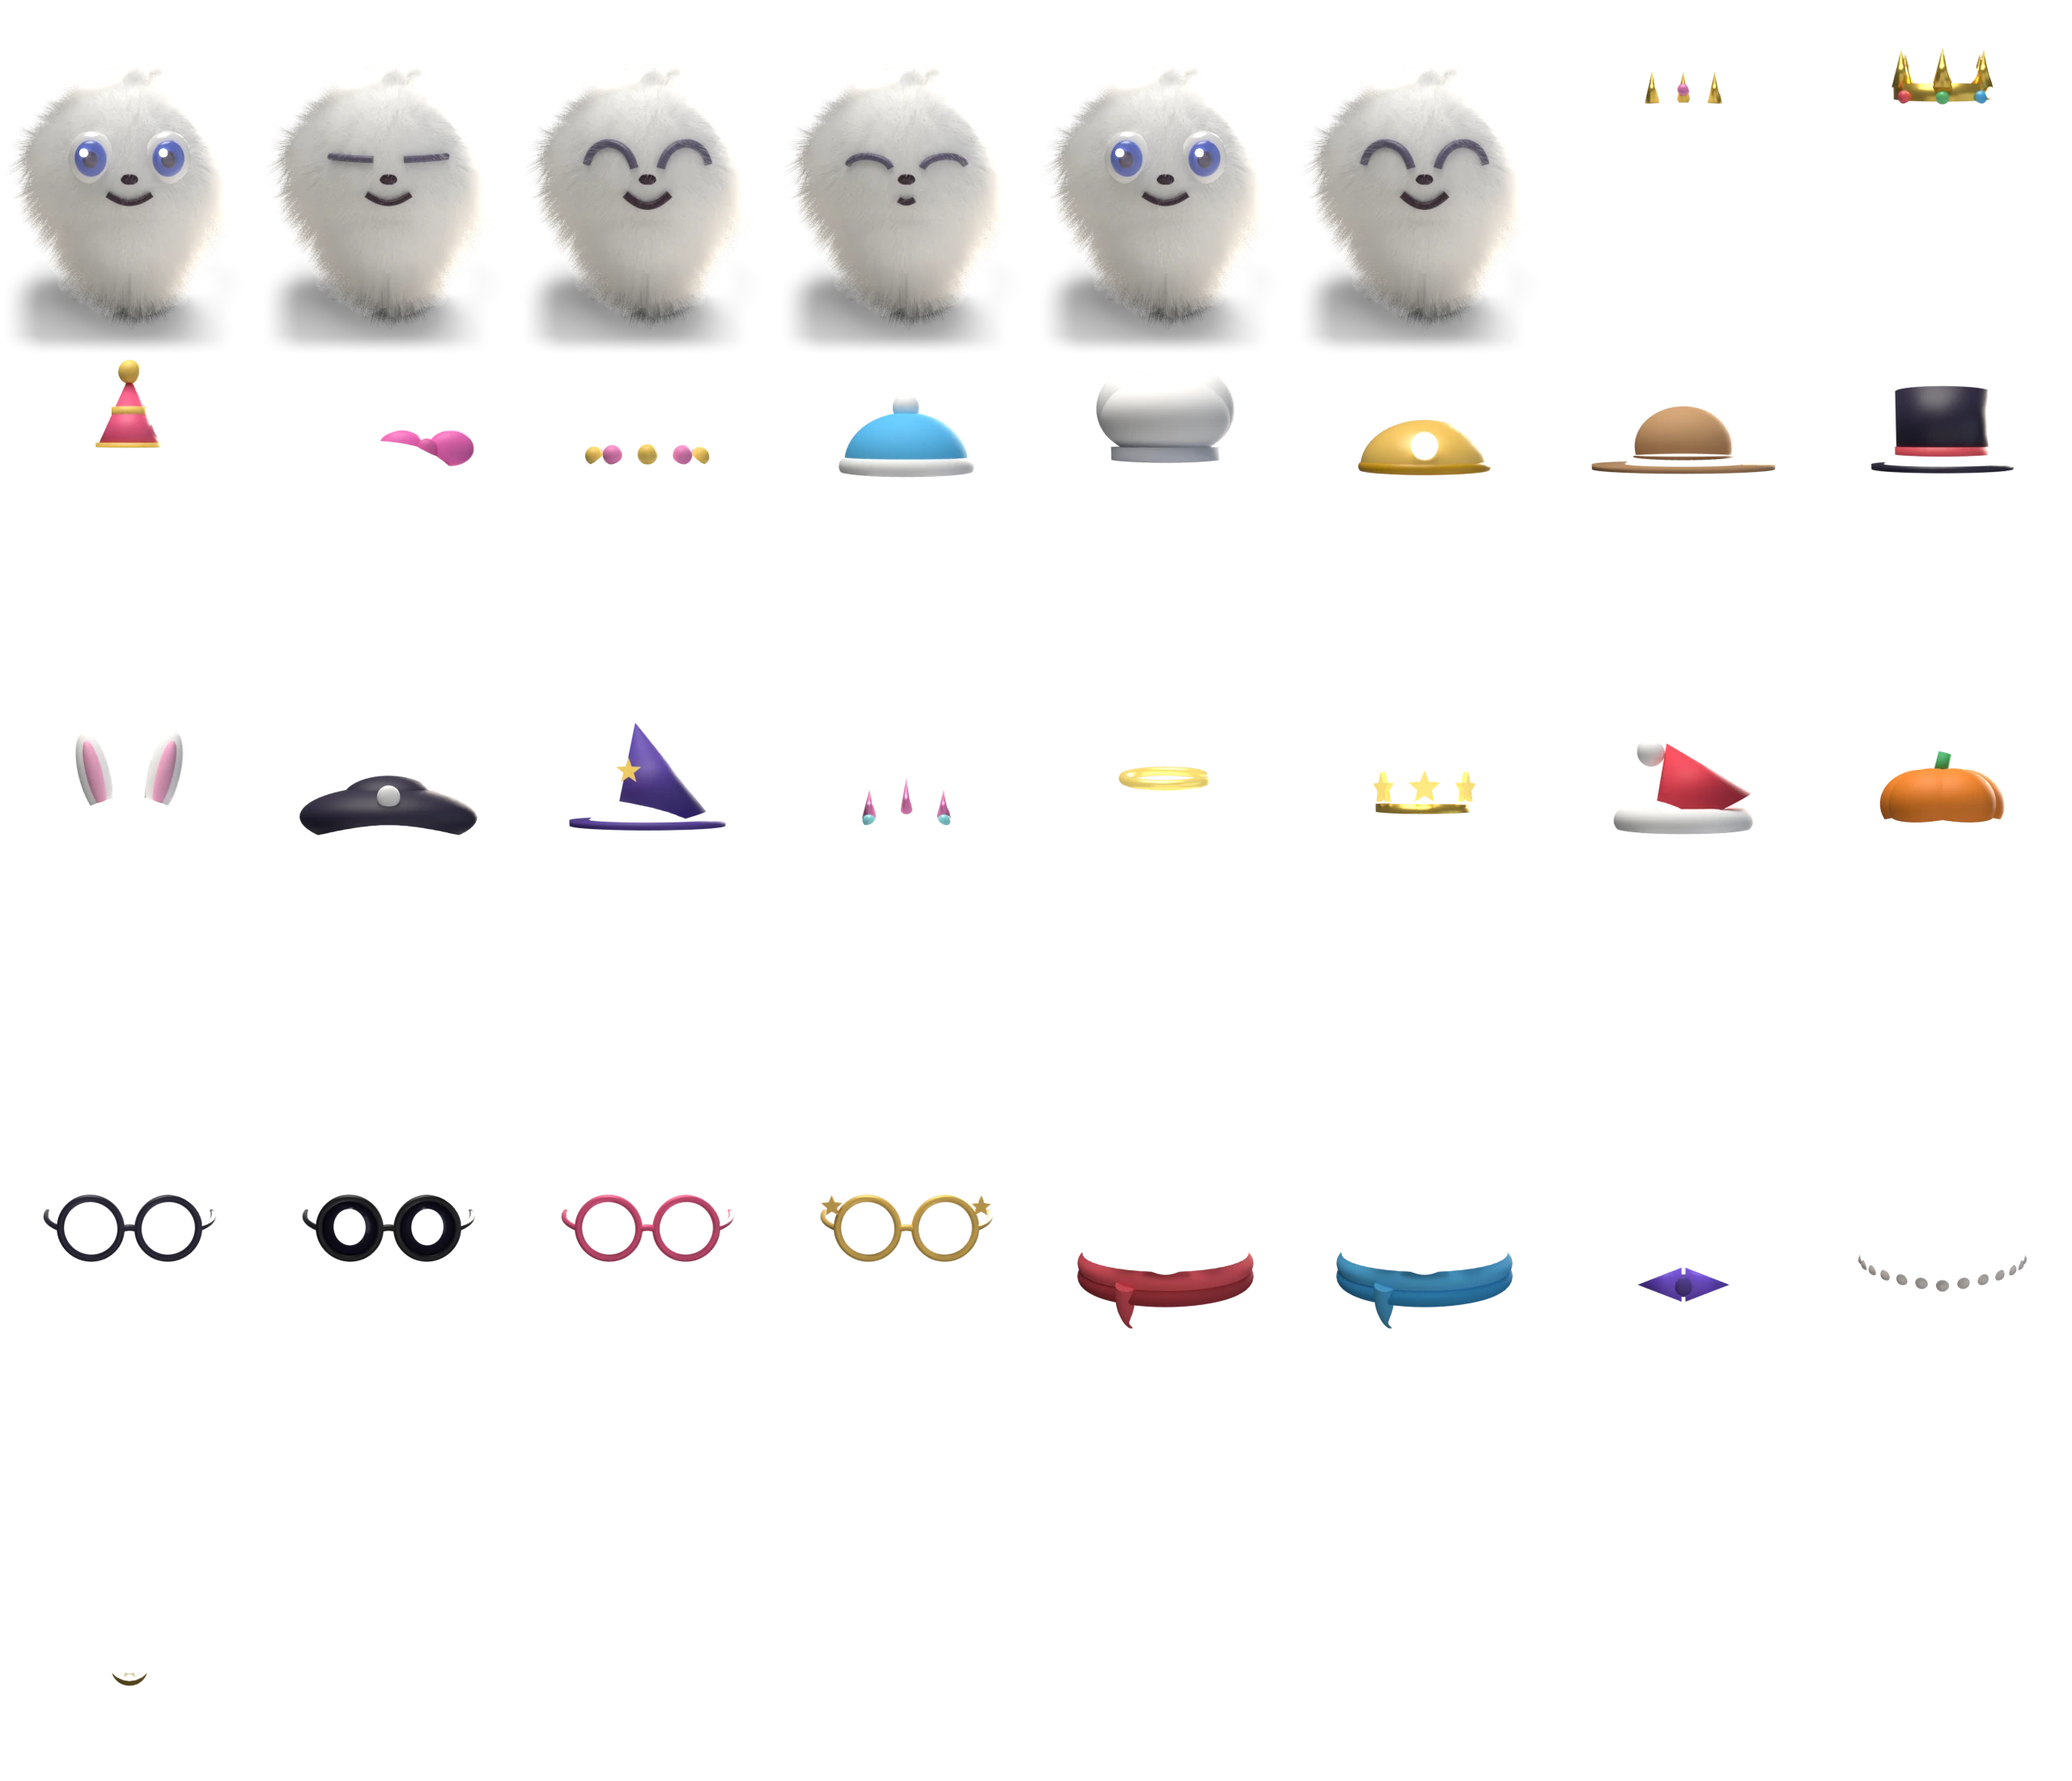
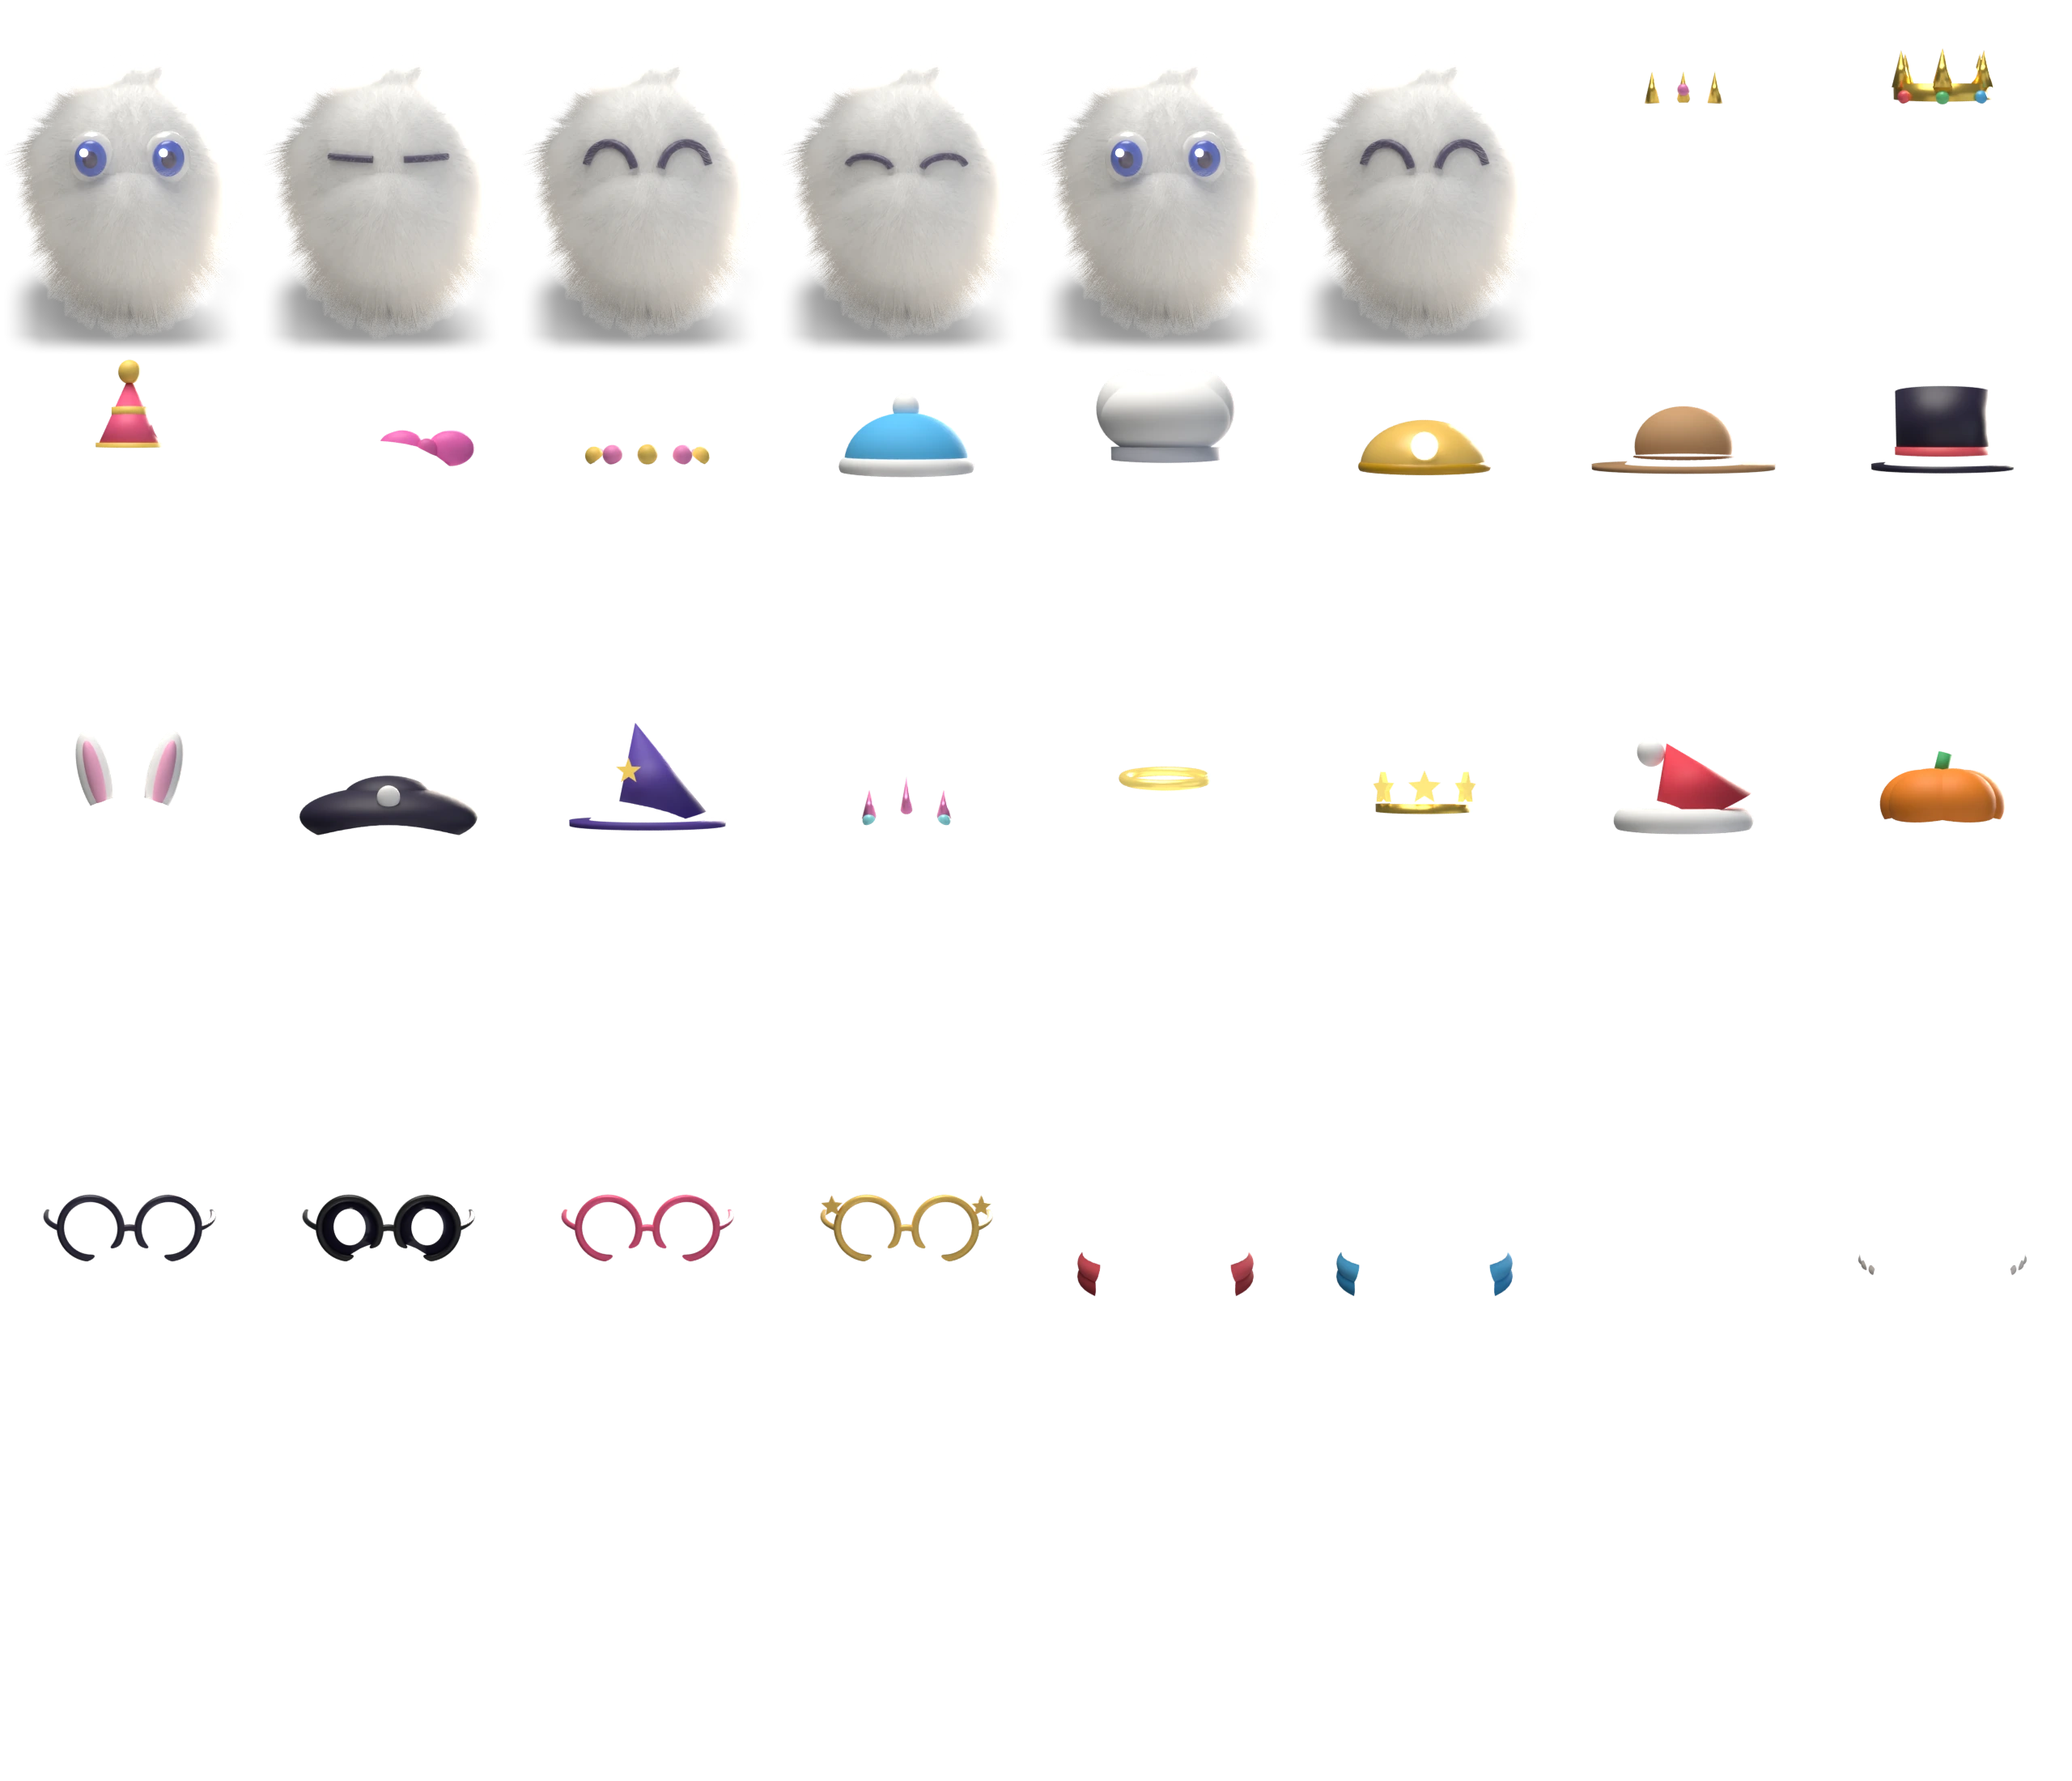
Craepets: one coat per species, so the fur no longer jumps between frames
Blender lays a hair particle system differently every time a scene is
rebuilt, even with the same seed, so rendering each expression in its
own scene gave every frame a different silhouette and the pet seemed to
twitch when it blinked. Each species is now built once and only the
face is swapped (and the feet moved) between frames, so the coat is
identical in every frame; the wardrobe reuses the same scene too. Frame
silhouettes are now pixel-identical outside the face.

Claude-Session: https://claude.ai/code/session_01STmPjNXH8YD7KjfrzSHRUD

diff --git a/tools/craepets-art/render.py b/tools/craepets-art/render.py
@@ -461,20 +461,33 @@ class Creature:
 
     def __init__(self, S, frame="idle"):
         self.S, self.frame = S, frame
-        self.body = []
+        self.body, self.face_objs, self.feet_objs = [], [], []
         S.clay_rough = self.skin_rough
         self.build()
         self.coat()
+        self.set_frame(frame)
 
     # ---- pieces ------------------------------------------------------------
     def build(self):
+        """The body — everything that stays put between frames. The face
+        is built by set_frame(), so one creature (and one coat of hair,
+        which Blender lays differently every time a scene is rebuilt)
+        serves every expression: the fur never jumps between frames."""
         S = self.S
         self.body.append(S.sphere("body", self.body_c, 1.0, S.clay("body"), scale=self.body_r))
         self.trim()
         self.belly()
-        self.face()
         if self.feet: self.make_feet()
-        S.body_objs = self.body
+
+    def set_frame(self, frame):
+        """Swap in the face for `frame` and pose the feet."""
+        self.frame = frame
+        S = self.S
+        if self.face_objs: S.remove(self.face_objs)
+        self.face_objs = []
+        self.face()
+        self.pose_feet()
+        S.body_objs = self.body + self.face_objs
 
     def trim(self): pass
 
@@ -521,12 +534,12 @@ class Creature:
                 # animal eyes: a white, a coloured iris, a small dark pupil,
                 # all glossy so the softbox reflects in them, plus a pin of
                 # light so they always catch
-                self.body.append(S.sphere("eye", (x, y + 0.02, z), r, S.eye_white(), scale=(1, 0.55, 1.15)))
-                self.body.append(S.sphere("iris", (x, y - r * 0.5, z + 0.02), r * 0.66, S.eye_iris(self.iris),
+                self.face_objs.append(S.sphere("eye", (x, y + 0.02, z), r, S.eye_white(), scale=(1, 0.55, 1.15)))
+                self.face_objs.append(S.sphere("iris", (x, y - r * 0.5, z + 0.02), r * 0.66, S.eye_iris(self.iris),
                                           scale=(1, 0.5, 1.15)))
-                self.body.append(S.sphere("pupil", (x, y - r * 0.7, z + 0.02), r * 0.36, S.eye_pupil(),
+                self.face_objs.append(S.sphere("pupil", (x, y - r * 0.7, z + 0.02), r * 0.36, S.eye_pupil(),
                                           scale=(1, 0.5, 1.15)))
-                self.body.append(S.sphere("glint", (x - r * 0.24, y - r * 0.86, z + r * 0.36), r * 0.16, S.eye_glint()))
+                self.face_objs.append(S.sphere("glint", (x - r * 0.24, y - r * 0.86, z + r * 0.36), r * 0.16, S.eye_glint()))
             else:
                 k = S.mat("lid", COL["pupil"], "eye", rough=0.35)
                 pts = []
@@ -544,7 +557,7 @@ class Creature:
                         a = math.pi * (1 - i / 6.0)
                         px, pz = x + math.cos(a) * r * 1.05, z - r * 0.35 + math.sin(a) * r * 1.0
                         pts.append((px, self.front(px, pz) - 0.02, pz))
-                self.body.append(S.tube("lid", pts, 0.055 if mode == "happy" else 0.045, k))
+                self.face_objs.append(S.tube("lid", pts, 0.055 if mode == "happy" else 0.045, k))
 
     def mouth(self):
         S = self.S
@@ -558,13 +571,13 @@ class Creature:
             x = t * w
             z = self.mouth_z - (1 - t * t) * w * (0.55 if big else 0.4) + w * 0.35
             pts.append((x, self.front(x, z) - 0.05, z))
-        self.body.append(S.tube("mouth", pts, 0.05 if big else 0.04, m))
+        self.face_objs.append(S.tube("mouth", pts, 0.05 if big else 0.04, m))
 
     def make_nose(self):
         if not self.nose: return
         S = self.S
         z = self.mouth_z + (self.eye_z - self.mouth_z) * 0.52
-        self.body.append(S.sphere("nose", (0, self.front(0, z) + 0.05, z), 0.11,
+        self.face_objs.append(S.sphere("nose", (0, self.front(0, z) + 0.05, z), 0.11,
                                   S.fixed("nose", "#3a2036", rough=0.3), scale=(1.3, 0.6, 0.85)))
 
     def face(self):
@@ -572,13 +585,19 @@ class Creature:
 
     def make_feet(self):
         S = self.S
-        up = self.frame in ("walk", "happywalk")
         for sx in (-1, 1):
-            z = self.foot_r * self.foot_scale[2]
-            y = self.foot_y
+            o = S.sphere("foot", (sx * self.foot_dx, self.foot_y, self.foot_r * self.foot_scale[2]), self.foot_r,
+                         S.clay("body"), scale=self.foot_scale)
+            self.body.append(o); self.feet_objs.append((o, sx))
+
+    def pose_feet(self):
+        """Walking lifts the left foot; the foot object just moves, so its
+        coat stays exactly as it was."""
+        up = self.frame in ("walk", "happywalk")
+        for o, sx in self.feet_objs:
+            z, y = self.foot_r * self.foot_scale[2], self.foot_y
             if up and sx < 0: z += 0.32; y -= 0.18
-            self.body.append(S.sphere("foot", (sx * self.foot_dx, y, z), self.foot_r, S.clay("body"),
-                                      scale=self.foot_scale))
+            o.location = (sx * self.foot_dx, y, z)
 
     # ---- anchors for the wardrobe ----------------------------------------
     def head_top(self):
@@ -692,13 +711,13 @@ class Zibbit(Creature):
         EY = -0.35
         for sx in (-1, 1):
             x, z, r = sx * self.eye_dx, self.eye_z, self.eye_r
-            self.body.append(S.sphere("eyeball", (x, EY, z), r, S.eye_white()))
+            self.face_objs.append(S.sphere("eyeball", (x, EY, z), r, S.eye_white()))
             if mode == "open":
-                self.body.append(S.sphere("iris", (x, EY - r * 0.68, z + r * 0.2), r * 0.56, S.eye_iris(self.iris),
+                self.face_objs.append(S.sphere("iris", (x, EY - r * 0.68, z + r * 0.2), r * 0.56, S.eye_iris(self.iris),
                                           scale=(1, 0.6, 1)))
-                self.body.append(S.sphere("pupil", (x, EY - r * 0.82, z + r * 0.2), r * 0.3, S.eye_pupil(),
+                self.face_objs.append(S.sphere("pupil", (x, EY - r * 0.82, z + r * 0.2), r * 0.3, S.eye_pupil(),
                                           scale=(1, 0.6, 1)))
-                self.body.append(S.sphere("glint", (x - r * 0.2, EY - r * 0.98, z + r * 0.42), r * 0.15, S.eye_glint()))
+                self.face_objs.append(S.sphere("glint", (x - r * 0.2, EY - r * 0.98, z + r * 0.42), r * 0.15, S.eye_glint()))
             else:
                 k = S.mat("lid", COL["pupil"], "eye", rough=0.35)
                 pts = []
@@ -708,7 +727,7 @@ class Zibbit(Creature):
                     pz = z + r * 0.2 + (math.sin(a) * r * (0.6 if mode == "happy" else 0.2) - (0.1 * r if mode != "happy" else 0.05 * r))
                     dy = math.sqrt(max(0.0, r * r - (px - x) ** 2 - (pz - z) ** 2))
                     pts.append((px, EY - dy - 0.02, pz))
-                self.body.append(S.tube("lid", pts, 0.05, k))
+                self.face_objs.append(S.tube("lid", pts, 0.05, k))
 
     def trim(self):
         S = self.S
@@ -734,8 +753,7 @@ class Glimmr(Creature):
         self.body.append(S.sphere("body2", (0, 0.05, 1.05), 0.88, S.clay("body"), scale=(1, 0.95, 1)))
         self.body.append(S.sphere("body3", (0.1, 0.1, 0.45), 0.5, S.clay("body")))
         self.body.append(S.sphere("body4", (0.25, 0.15, 0.12), 0.22, S.clay("body")))
-        self.trim(); self.belly(); self.face()
-        S.body_objs = self.body
+        self.trim(); self.belly()
 
     def belly(self):
         S = self.S
@@ -1214,18 +1232,25 @@ def main():
             if os.path.exists(base + ".webp") and not args.force and sid in manifest["sheets"]:
                 print("skip", sid, "(exists)"); continue
             tiles = []
+            S = c = None                      # ONE scene per species: the coat must not change between frames
+            def creature(frame):
+                nonlocal S, c
+                if S is None:
+                    S = Scene(FRAME_W, FRAME_H, args.samples); c = SPECIES[sid](S, frame)
+                else:
+                    c.set_frame(frame)
+                return S, c
             for frame in (args.frames.split(",") if args.frames else FRAMES):
                 lit, idp = tile(f"{sid}-{frame}"), tile(f"{sid}-{frame}-id")
                 if not have(lit, idp):
-                    S = Scene(FRAME_W, FRAME_H, args.samples)
-                    SPECIES[sid](S, frame)
+                    S, c = creature(frame)
                     S.render(lit); S.render_id(idp)
                     print(f"  {sid} {frame}  ({time.time() - t0:.0f}s)")
                 tiles += [(frame, lit), (frame + "-id", idp)]
             todo = [w for w in wear_ids if not have(tile(f"{sid}-wear-{w}"))]
             if todo:
-                S = Scene(FRAME_W, FRAME_H, max(24, args.samples * 3 // 4))
-                c = SPECIES[sid](S, "idle")
+                S, c = creature("idle")
+                S.sc.cycles.samples = max(24, args.samples * 3 // 4)
                 S.set_holdout(S.body_objs, True)
                 S.floor.hide_render = True        # the creature's own tile has the floor shadow
                 # the coat is in the creature's own tile too: a holdout body
